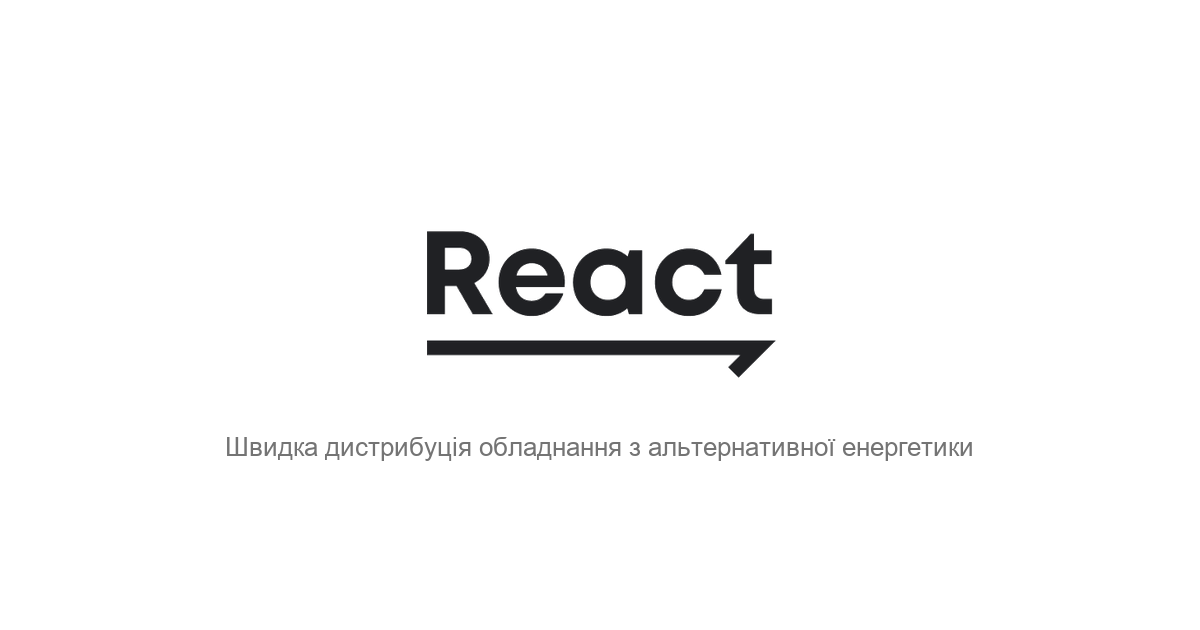
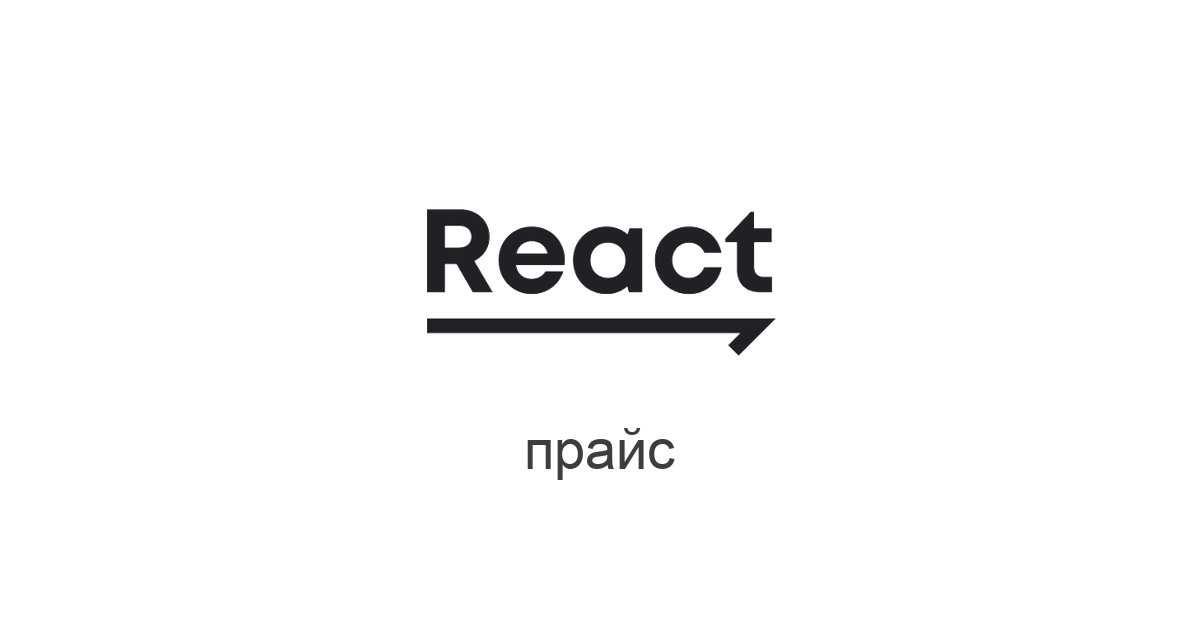
OG: коротко 'React прайс' замість слогану

Changed region(s): [[0.3392, 0.3317, 0.6475, 0.6032], [0.185, 0.6937, 0.8325, 0.754]]

diff --git a/index.html b/index.html
@@ -10,14 +10,12 @@
 <meta property="og:type" content="website">
 <meta property="og:site_name" content="React">
 <meta property="og:url" content="https://react.ink/">
-<meta property="og:title" content="React · Прайс-лист">
-<meta property="og:description" content="Сонячні панелі, інвертори, акумулятори. Швидка дистрибуція обладнання з альтернативної енергетики.">
+<meta property="og:title" content="React прайс">
 <meta property="og:image" content="https://react.ink/assets/og-image.png">
 <meta property="og:image:width" content="1200">
 <meta property="og:image:height" content="630">
 <meta name="twitter:card" content="summary_large_image">
-<meta name="twitter:title" content="React · Прайс-лист">
-<meta name="twitter:description" content="Сонячні панелі, інвертори, акумулятори. Швидка дистрибуція обладнання з альтернативної енергетики.">
+<meta name="twitter:title" content="React прайс">
 <meta name="twitter:image" content="https://react.ink/assets/og-image.png">
 <link rel="preconnect" href="https://fonts.googleapis.com">
 <link rel="preconnect" href="https://fonts.gstatic.com" crossorigin>
